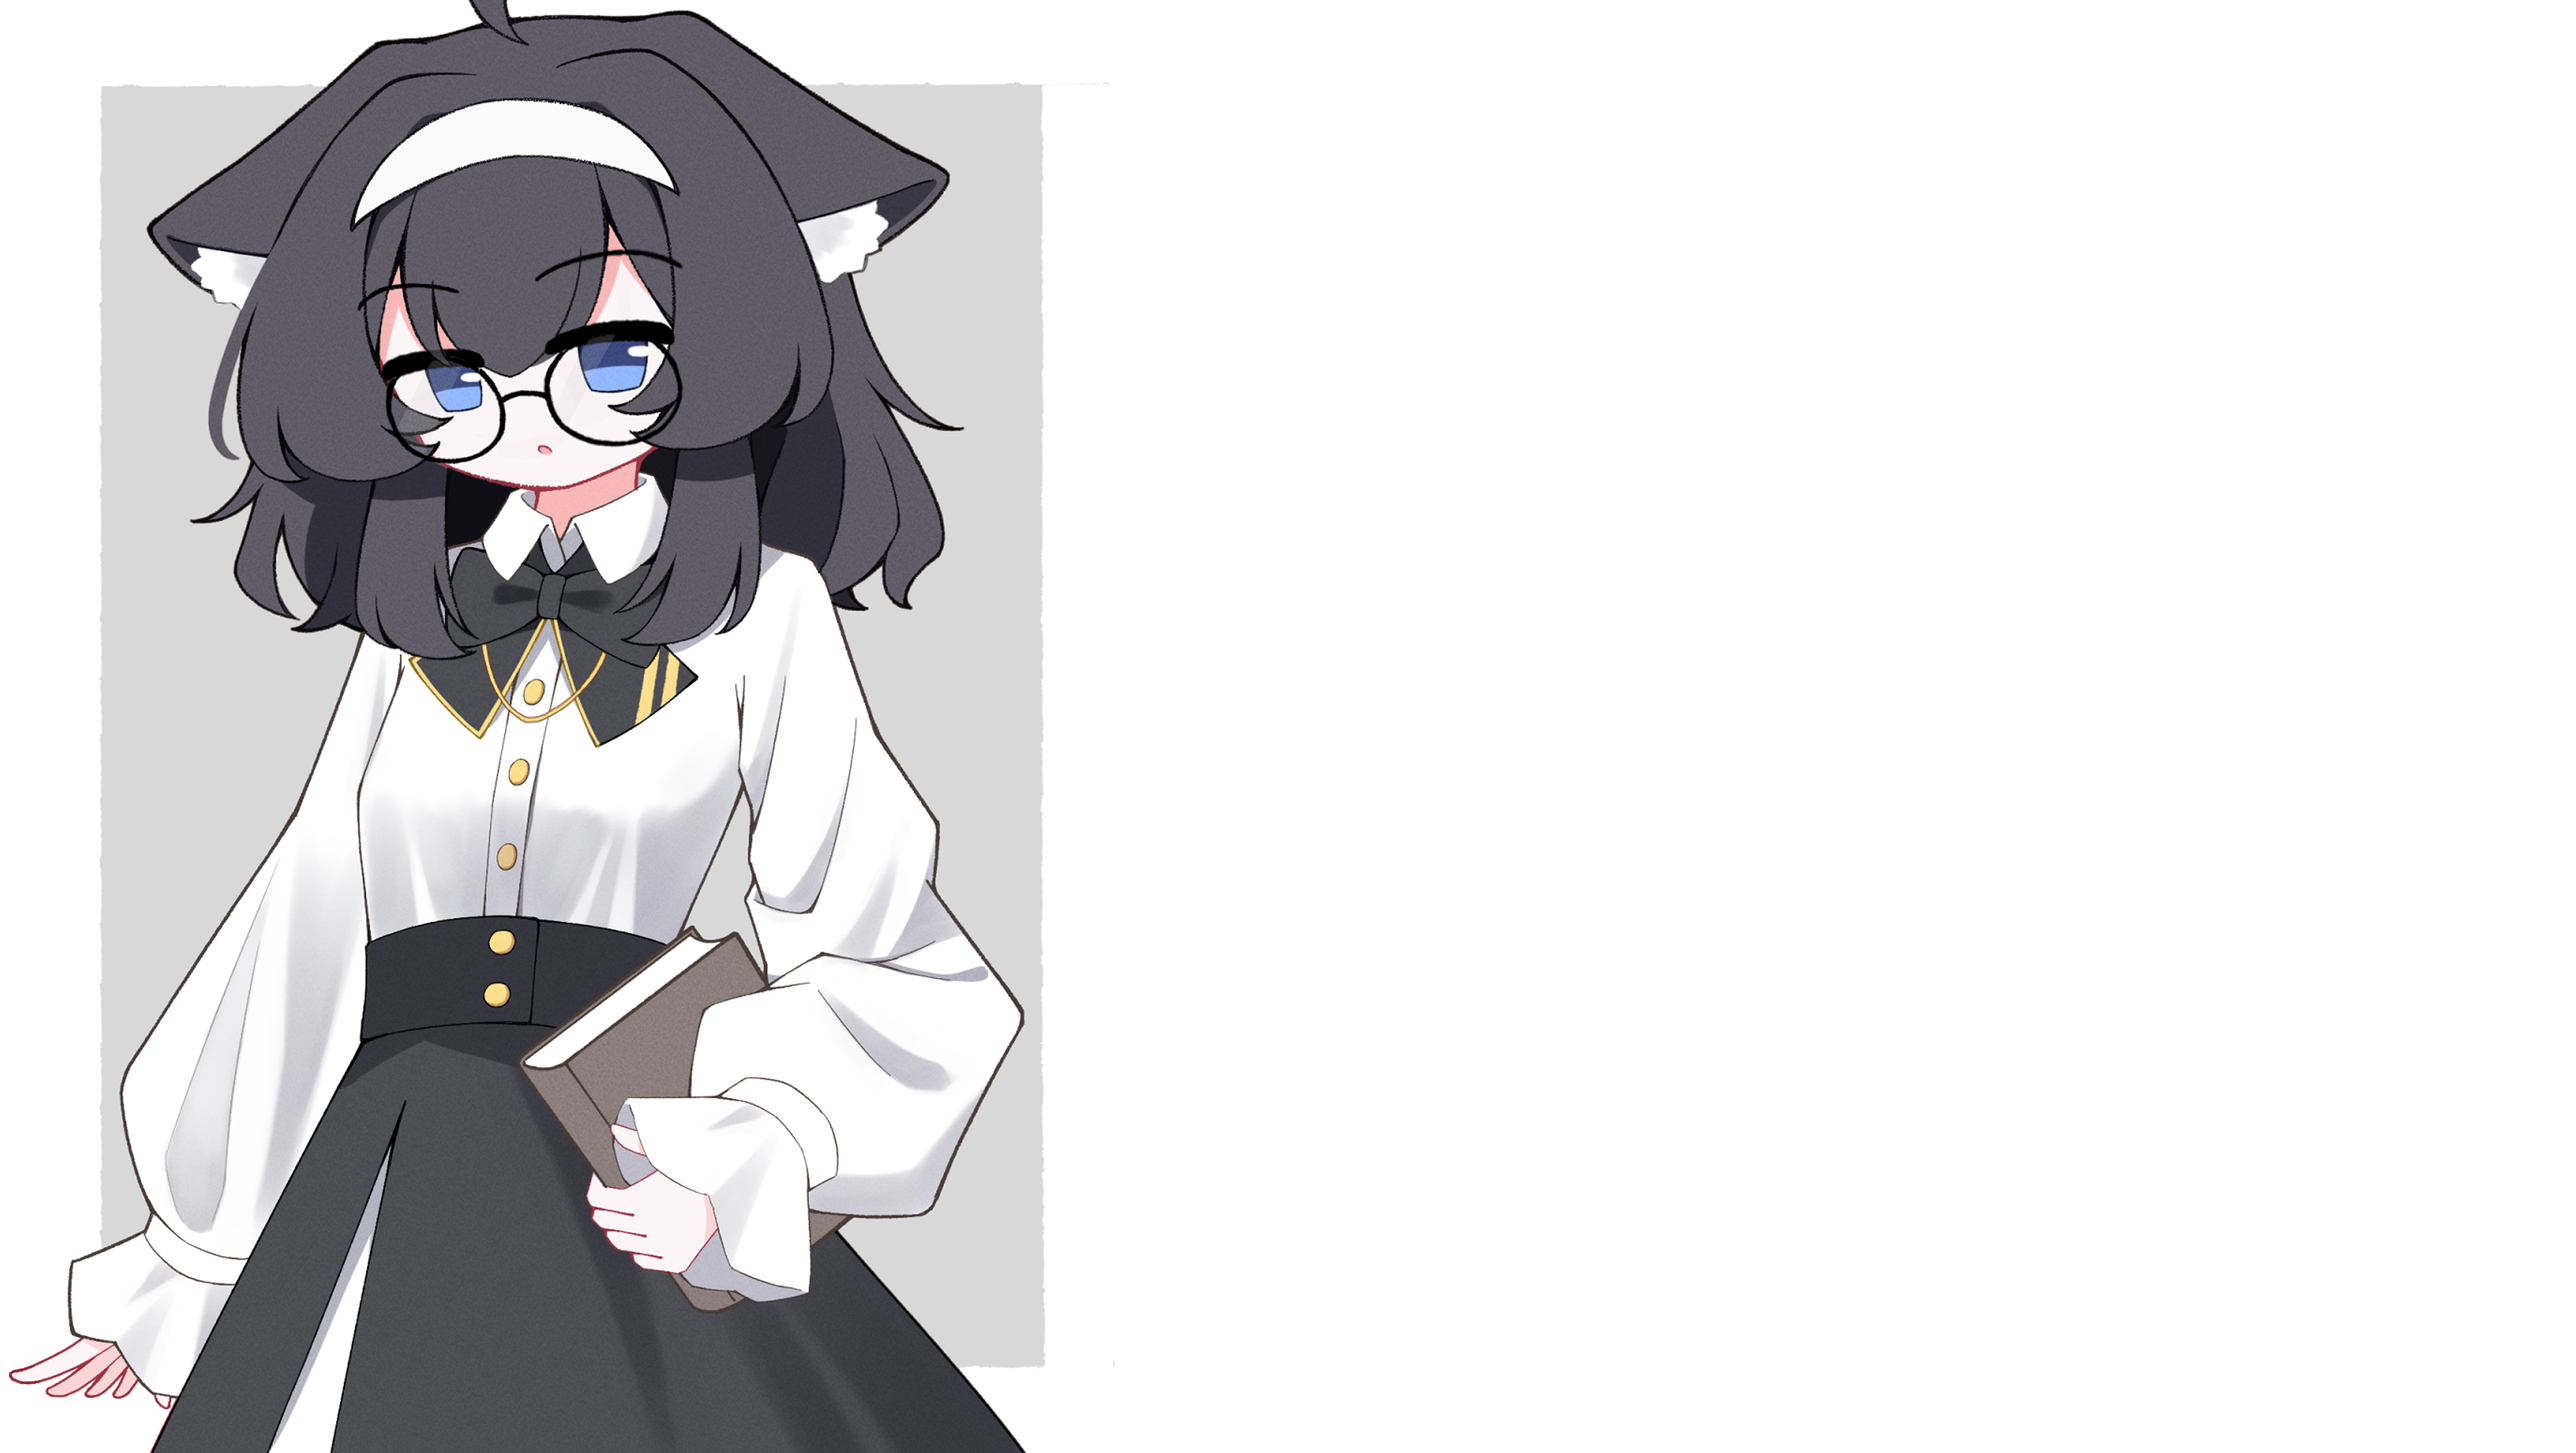
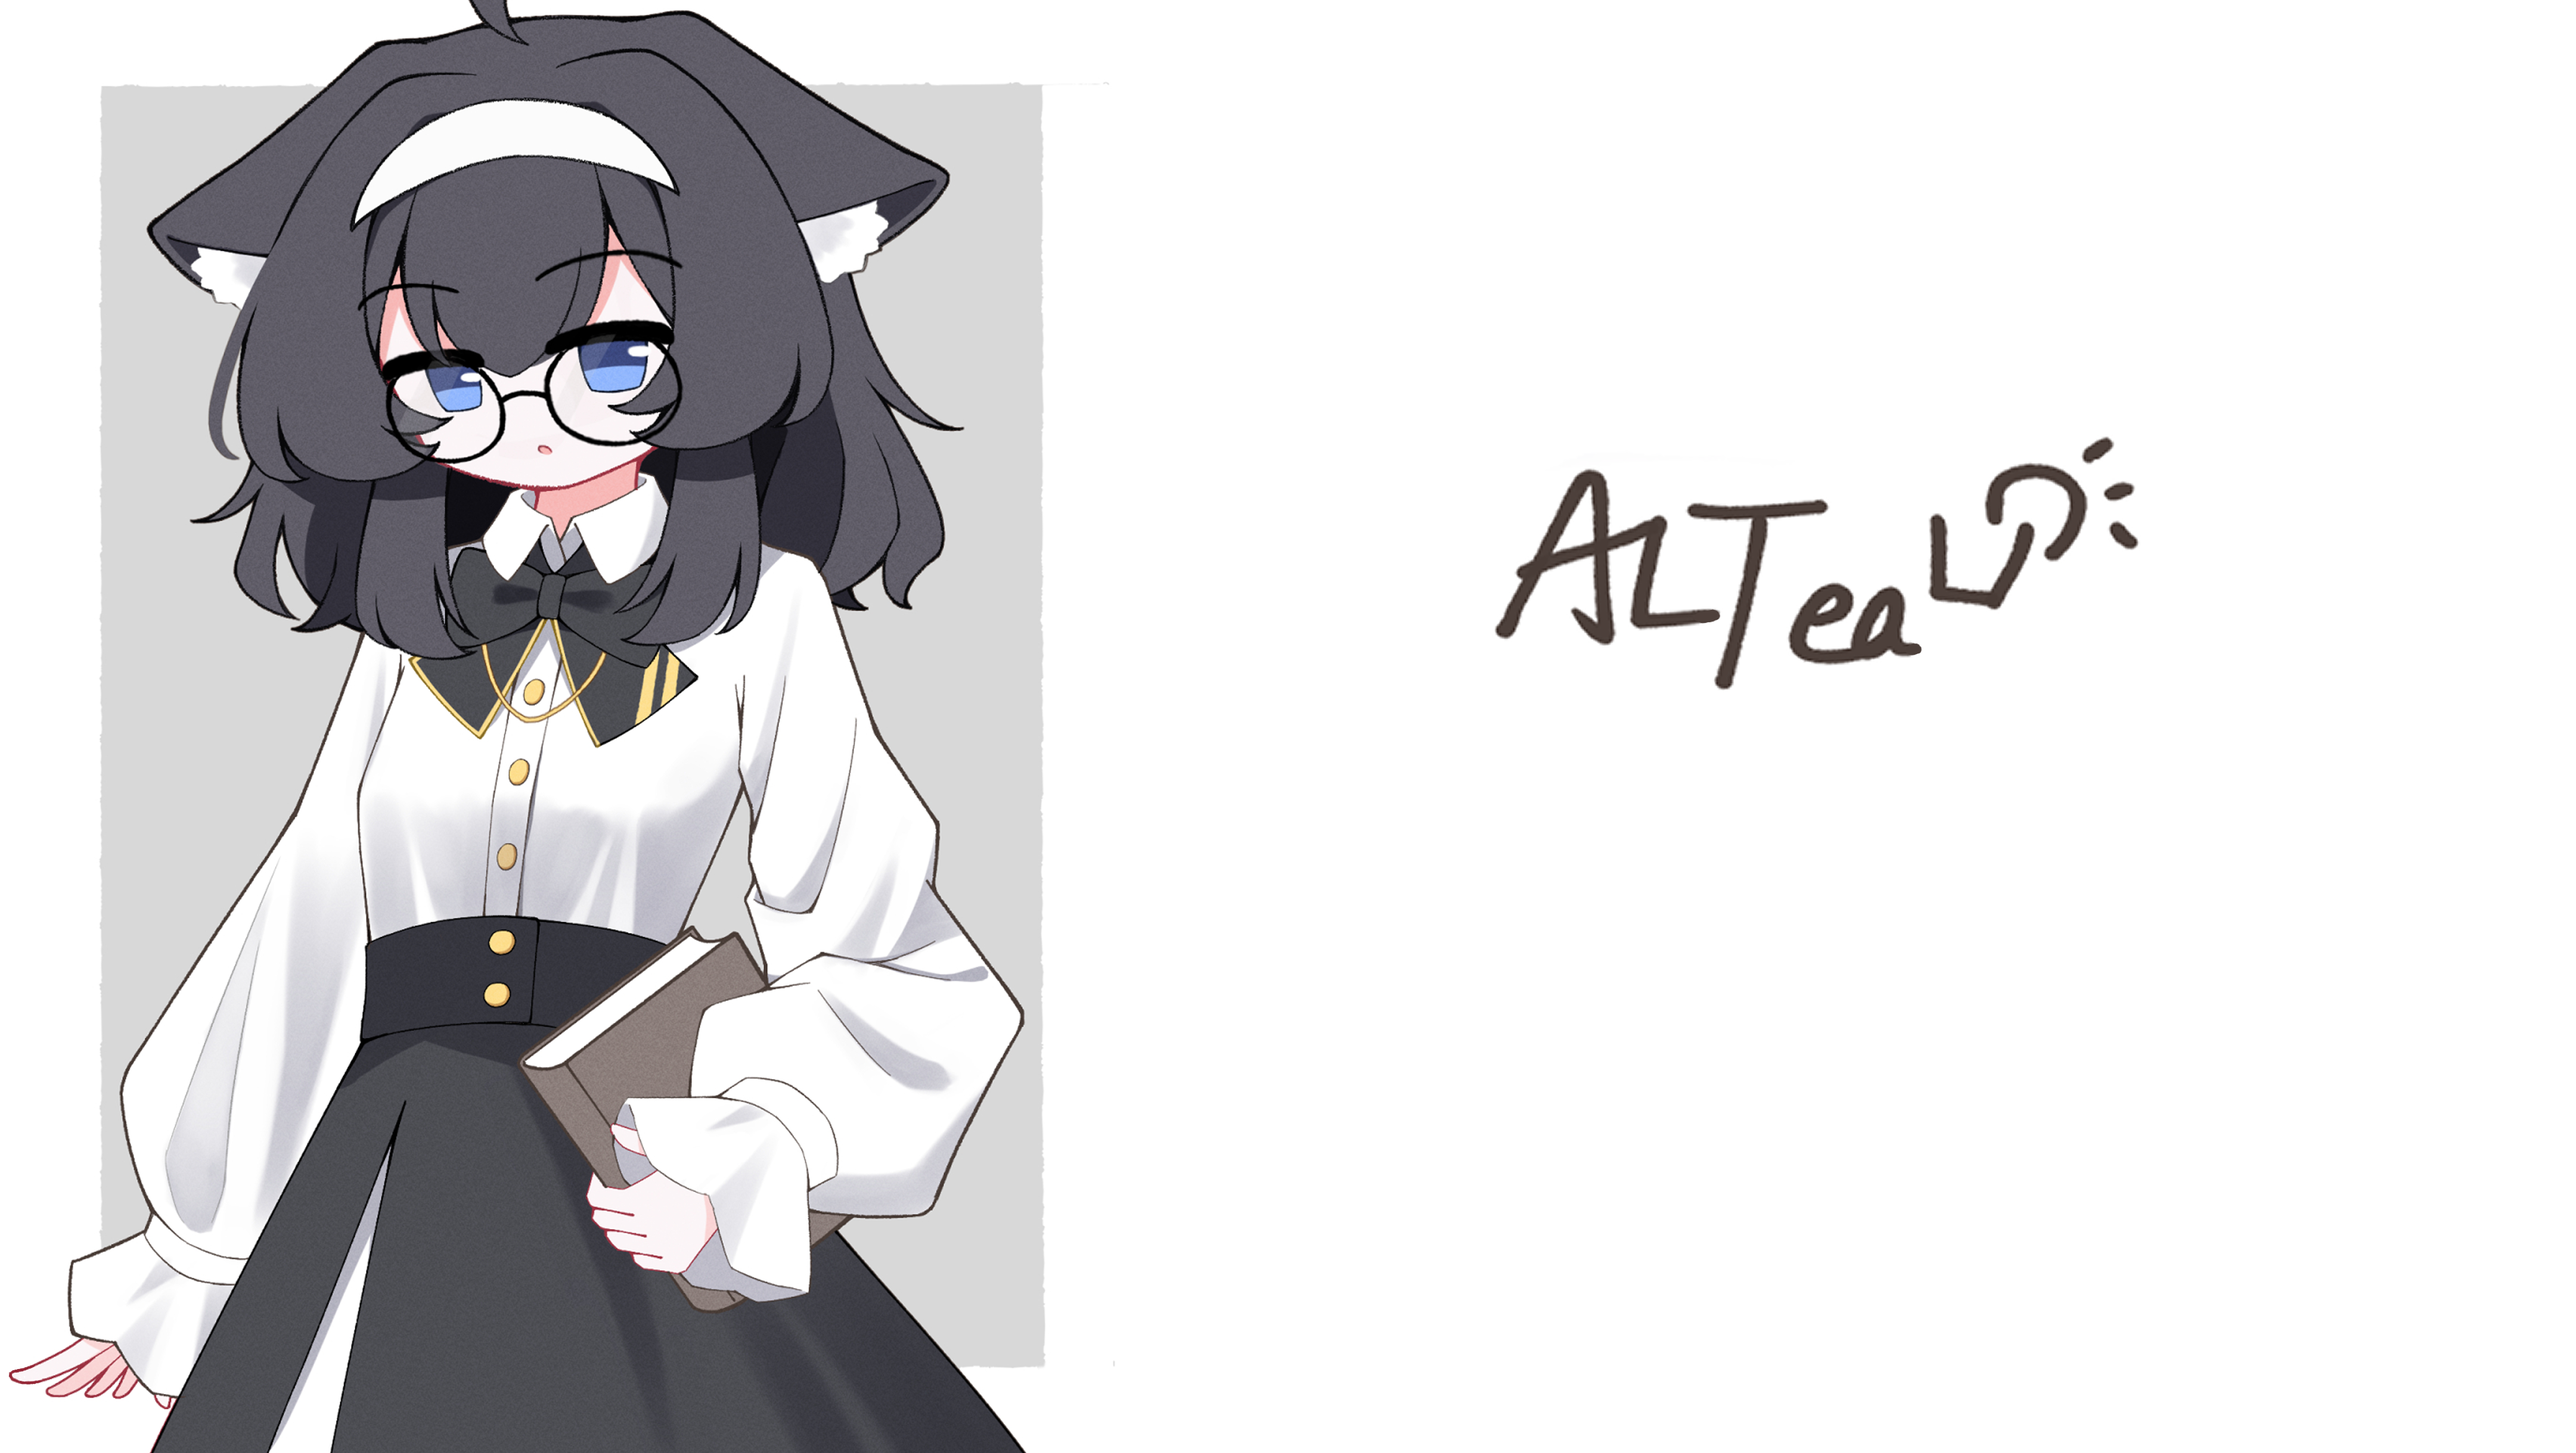
profile

Changed region(s): [[0.5622, 0.3116, 0.8434, 0.4674]]

diff --git a/src/views/profile/index.vue b/src/views/profile/index.vue
@@ -6,17 +6,23 @@ const switchTab = (index) => {
   tabIndex.value = index
 }
 
-const profileImgSrc = ref("/profile/pf-bg.png?t=" + new Date().getTime().toString())
 const ocImgSrc = ref("/profile/aio.png?t=" + new Date().getTime().toString())
 </script>
 
 <template>
   <div class="profile-container">
     <div class="id-card" v-show="tabIndex === 'profile'">
-      <img :src="profileImgSrc" alt="" class="id-card-img">
+      <div class="name-block blue-text-color">
+        <p>杏仁レモンティー</p>
+      </div>
+      <div class="detail-block blue-text-color">
+        <p>絵が少し描ける一般人です。</p>
+        <p>好きなものなんでもやります。</p>
+        <p>中文 / 日本語 / English OK。</p>
+      </div>
     </div>
-    <div class="id-card" v-show="tabIndex === 'OC'">
-      <img :src="ocImgSrc" alt="" class="id-card-img">
+    <div class="oc-card" v-show="tabIndex === 'OC'">
+      <img :src="ocImgSrc" alt="" class="oc-card-img">
     </div>
 
     <div class="button-block blue-text-color">
@@ -39,17 +45,52 @@ const ocImgSrc = ref("/profile/aio.png?t=" + new Date().getTime().toString())
   display: flex;
   align-items: center;
 
+  .oc-card {
+    background-color: white;
+    width: 60vw;
+    height: 70vh;
+    margin-left: 7vw;
+    display: flex;
+    flex-direction: column;
+
+    .oc-card-img {
+      height: 100%;
+      aspect-ratio: auto;
+      margin: 0 auto;
+    }
+  }
+
   .id-card {
     background-color: white;
     width: 60vw;
     height: 70vh;
     margin-left: 7vw;
     display: flex;
+    flex-direction: column;
+    background-image: url("/profile/pf-bg.png");
+    background-size: cover;
 
-    .id-card-img {
-      height: 100%;
-      aspect-ratio: auto;
-      margin: 0 auto;
+    .name-block {
+      width: 25vw;
+      height: 7vh;
+      margin: 10vh 5vw 0 auto;
+      display: flex;
+      border-bottom: 5px solid #ffed6f;
+    }
+    .name-block p {
+      margin: auto;
+      font-size: 40px;
+    }
+
+    .detail-block {
+      width: 25vw;
+      height: 30vh;
+      margin: 33vh 5vw 0 auto;
+    }
+    .detail-block p {
+      margin-top: 12px;
+      padding: 0 3vw;
+      font-size: 25px;
     }
   }
 
